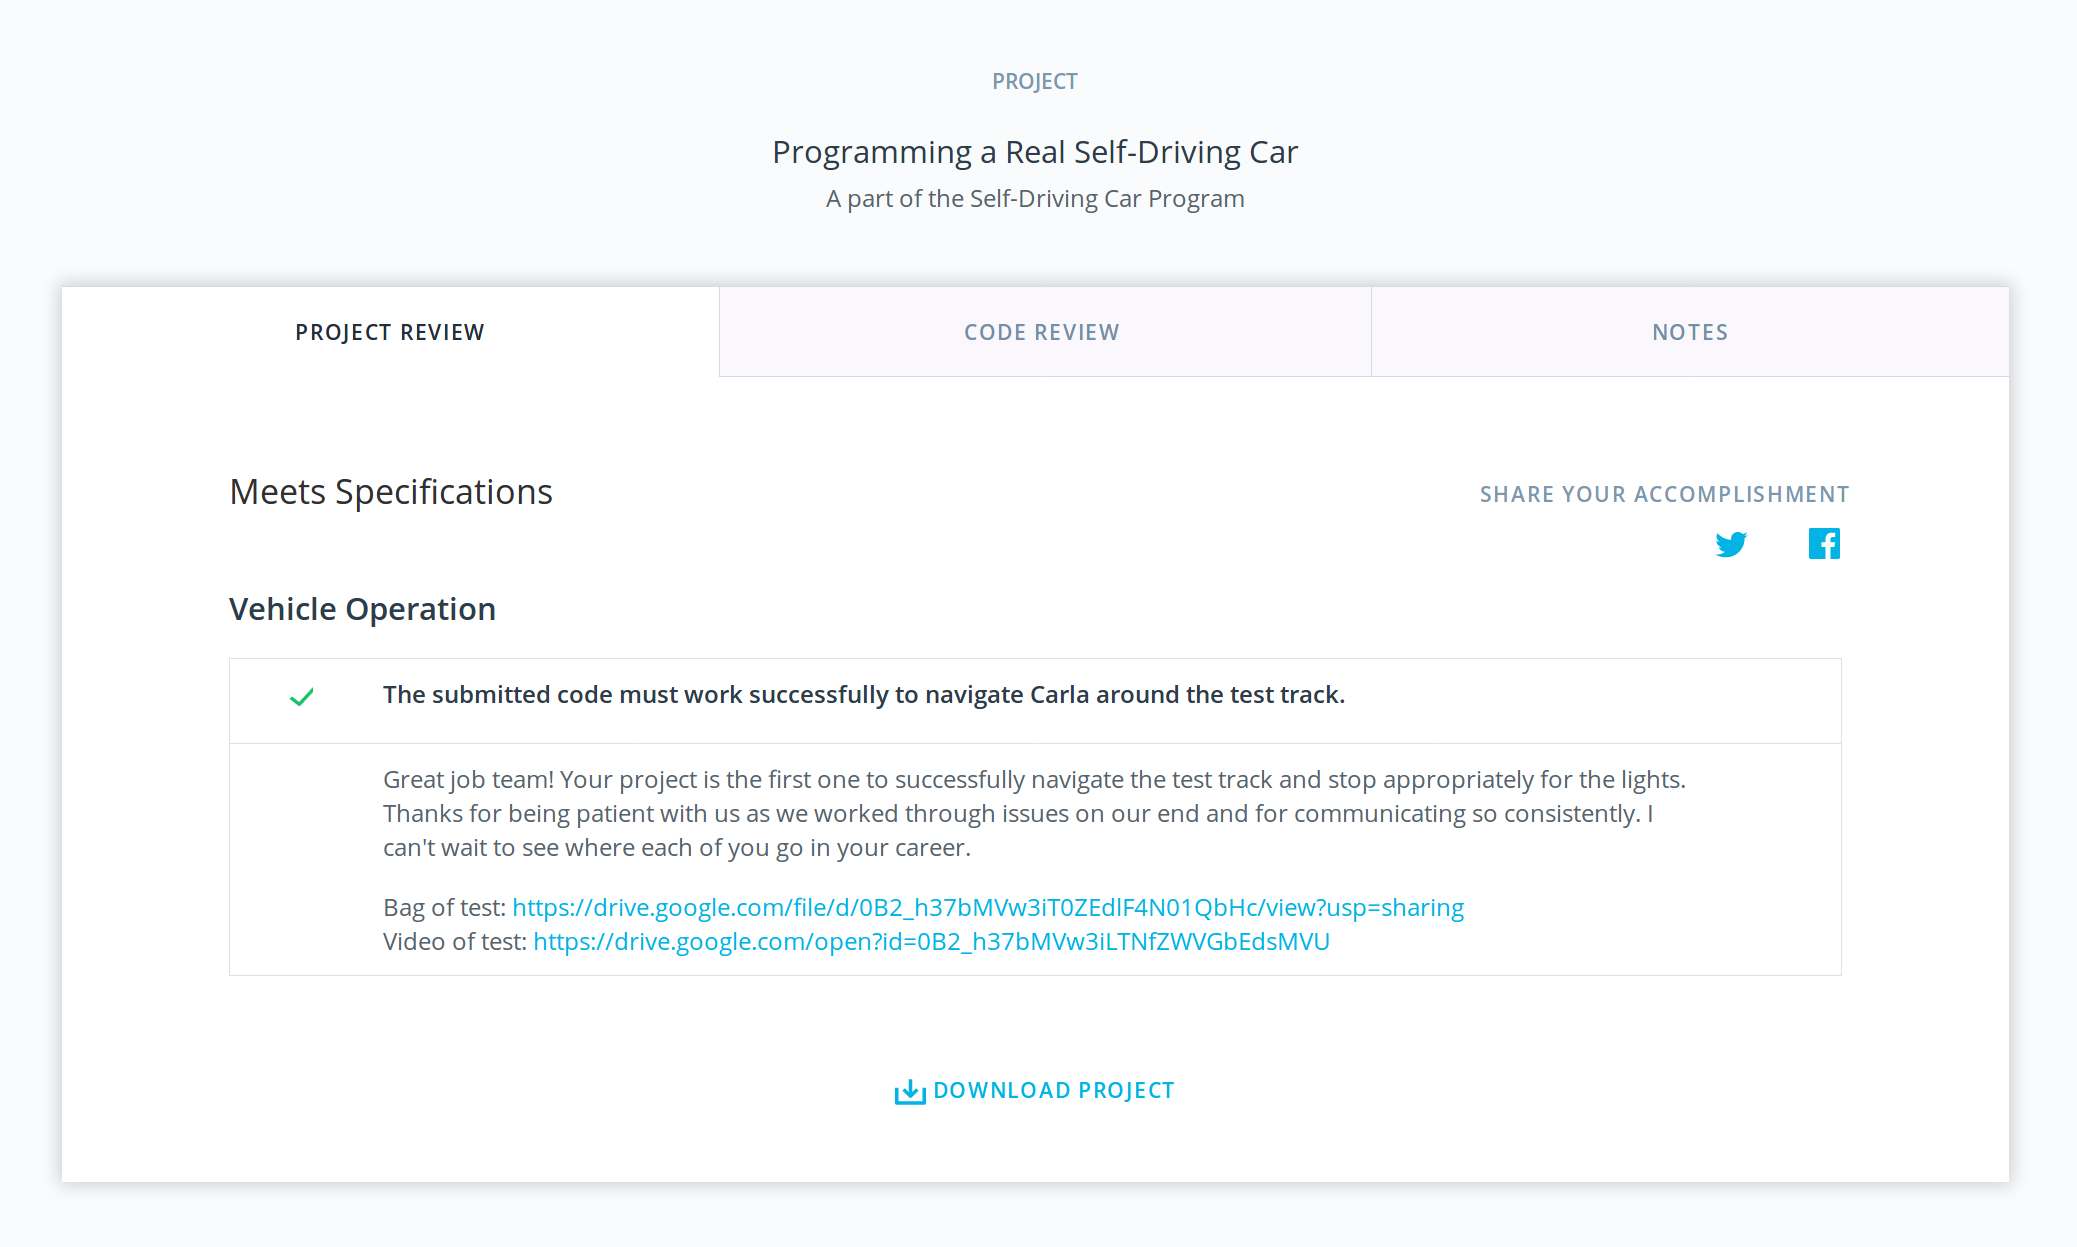
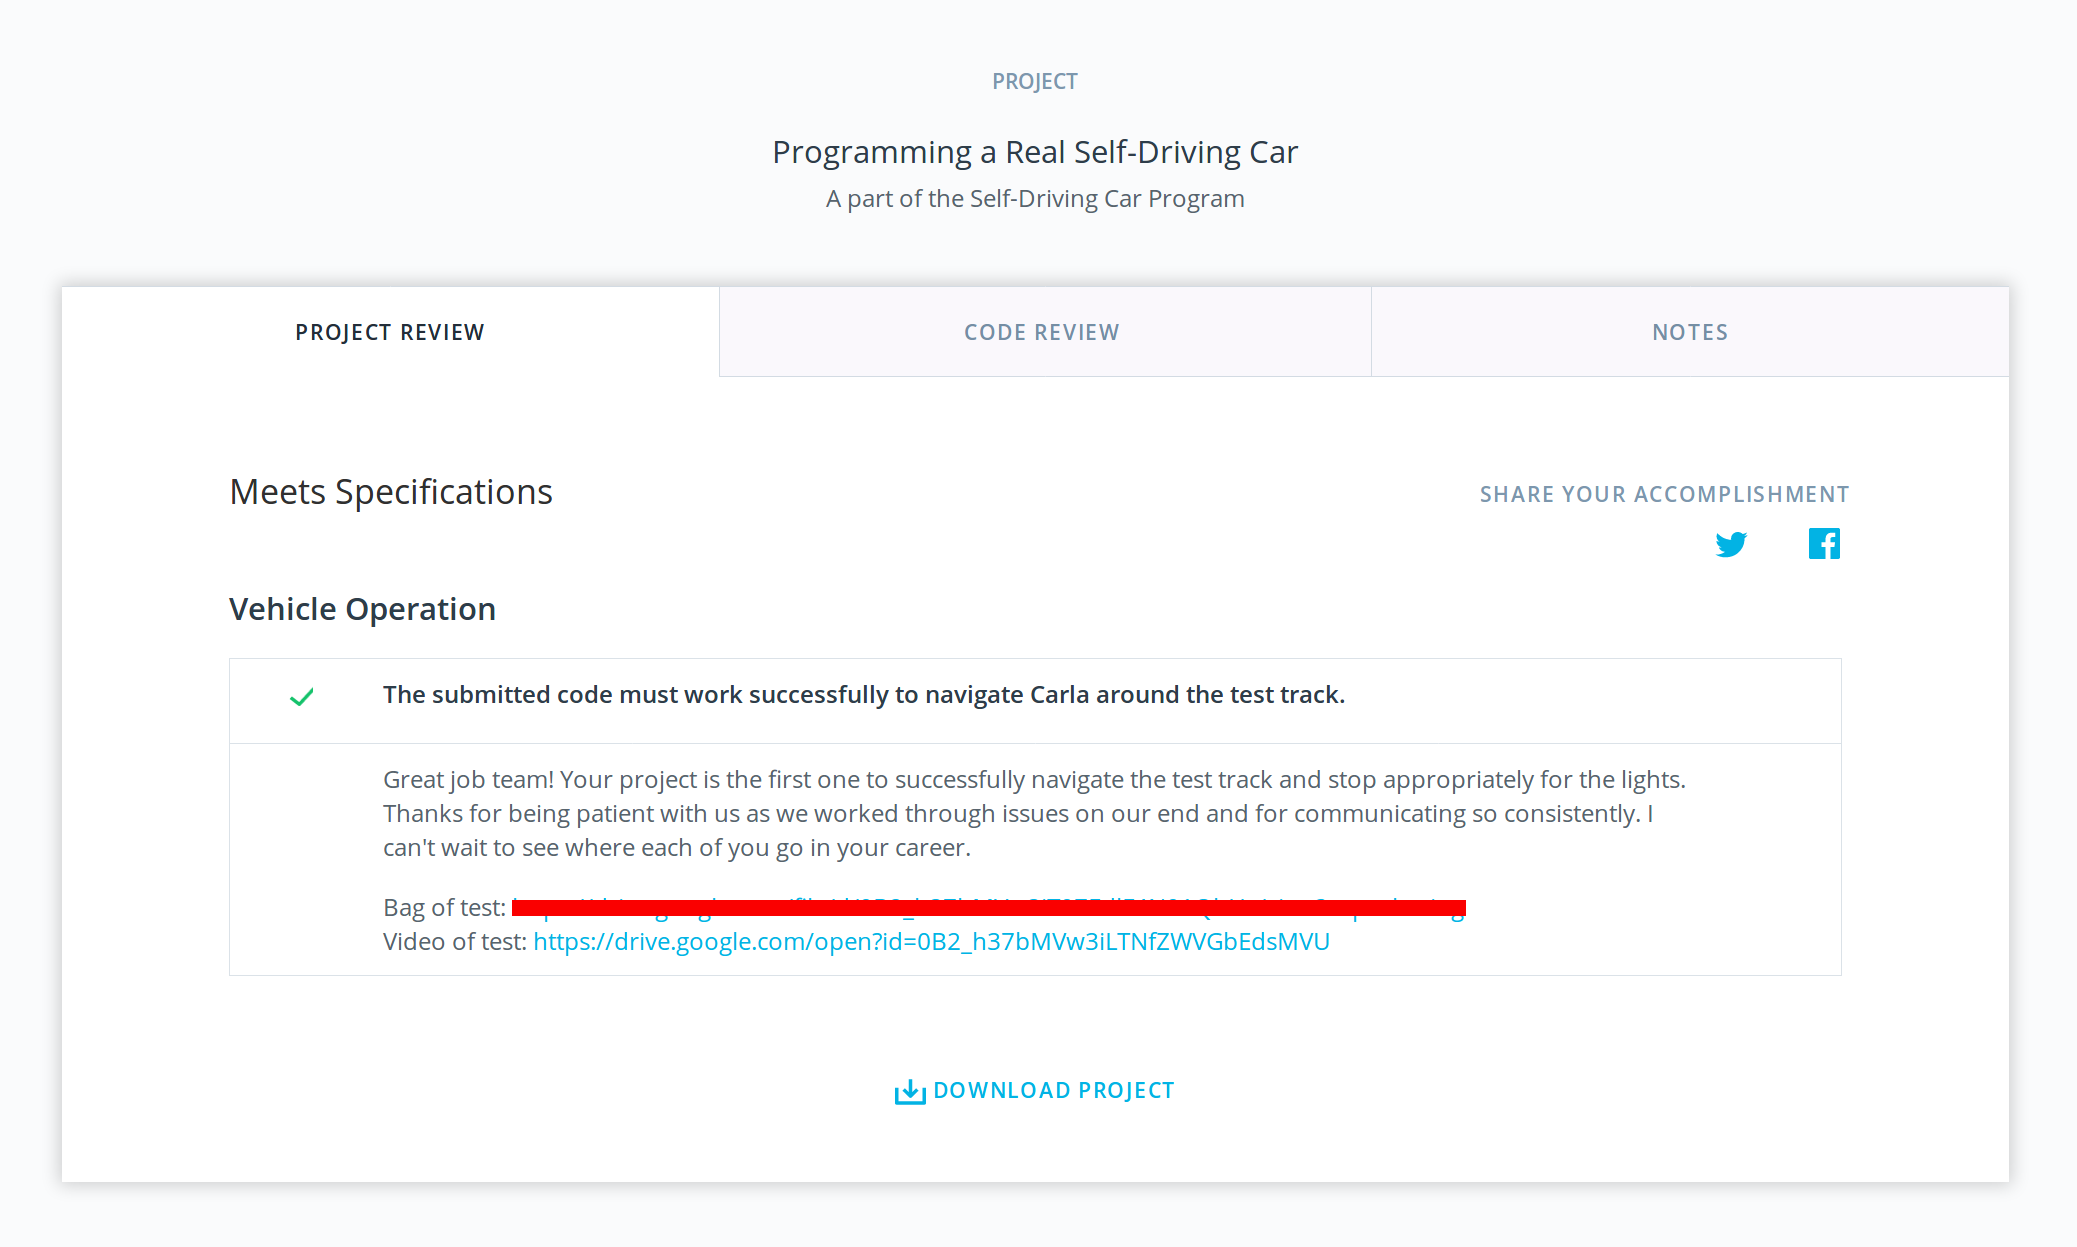
docs: add project integrity warning and red-out test bag URL

Changed region(s): [[0.2465, 0.7009, 0.7087, 0.7618]]

diff --git a/README.md b/README.md
@@ -4,6 +4,8 @@ This is Team Vulture project repo for the final project of the Udacity Self-Driv
 
 NOTE: You will find our development, testing logs and __SAFETY NOTES__ in the [REPORT.md](./REPORT.md) file.
 
+*WARNING: To maintain integrity of the SDCND Final System Integration Project, the throttle and brake actuation settings in this prepository is __NOT__ what was used in the successful navigation of Carla around the test track.*
+
 
 ### The Team
 
@@ -11,19 +13,13 @@ NOTE: You will find our development, testing logs and __SAFETY NOTES__ in the [R
 
 The following are the members of Team Vulture. Artwork for printing our team T-Shirt can be found [here](https://github.com/diyjac/SDC-System-Integration/blob/rainer-rev3/imgs/T-Shirt/README.md).
 
-<!---* __Team Lead__: John Chen, diyjac@gmail.com--->
-<!---* Rainer Bareiß, rainer_bareiss@gmx.de--->
-<!---* Sebastian Trick, sebastian.trick@gmail.com--->
-<!---* Yuesong Xie, cedric_xie@hotmail.com--->
-<!---* Kunfeng Chen, kunfengchen@live.com--->
-
-|              | Name      |  E-Mail         | Image |
-|--------------|-----------|-----------------|--------------------------------
-| __Team Lead__| John Chen | diyjac@gmail.com| <img src="./imgs/team/JohnChen.jpg" alt="John Chen" width="150" height="150"> |
-|| Rainer Bareiß| rainer_bareiss@gmx.de | <img src="./imgs/team/RainerBareiss.jpg" alt="Rainer Bareiß" width="150" height="150"> |
-|| Sebastian Trick| sebastian.trick@gmail.com | <img src="./imgs/team/SebastianTrick.jpg" alt="Sebastian Trick" width="150" height="150">  |
-|| Yuesong Xie | cedric_xie@hotmail.com | <img src="./imgs/team/YuesongXie.jpg" alt="Yuesong Xie" width="150" height="150">  |
-|| Kunfeng Chen | kunfengchen@live.com | <img src="./imgs/team/KunfengChen.jpg" alt="Kunfeng Chen" width="150" height="150"> |
+|              | Name      | Image |
+|--------------|-----------|--------------------------------
+| __Team Lead__| John Chen | <img src="./imgs/team/JohnChen.jpg" alt="John Chen" width="150" height="150"> |
+|| Rainer Bareiß | <img src="./imgs/team/RainerBareiss.jpg" alt="Rainer Bareiß" width="150" height="150"> |
+|| Sebastian Trick | <img src="./imgs/team/SebastianTrick.jpg" alt="Sebastian Trick" width="150" height="150">  |
+|| Yuesong Xie | <img src="./imgs/team/YuesongXie.jpg" alt="Yuesong Xie" width="150" height="150">  |
+|| Kunfeng Chen | <img src="./imgs/team/KunfengChen.jpg" alt="Kunfeng Chen" width="150" height="150"> |
 
 ### Team Vulture Accomplishments
 #### 1. First team to move Carla
